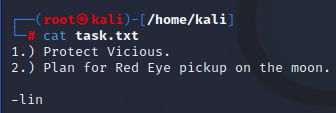
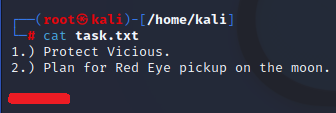
cowboyhacker

Changed region(s): [[0.0, 0.823, 0.2083, 0.9292]]

diff --git a/_posts/Hacking-ético/Maquinas/tryhackme/2023-1-10-CowBoyHacker.md b/_posts/Hacking-ético/Maquinas/tryhackme/2023-1-10-CowBoyHacker.md
@@ -38,7 +38,7 @@ A continuación veremos el contenido de los dos archivos:
 
 ![Untitled](p6.png)
 
-Después de sacar la lista de contraseñas, probaremos a entrar con fuerza bruta a ssh, con el usuario “lin”, que sacamos en el txt “task.txt”
+Después de sacar la lista de contraseñas, probaremos a entrar con fuerza bruta a ssh, con el usuario “X”, que sacamos en el txt “task.txt”
 
 ![Untitled](p7.png)
 
@@ -46,7 +46,7 @@ Accedemos a ssh con este usuario y contraseña y hacemos un ls para ver que nos 
 
 ![Untitled](p8.png)
 
-Primero miraremos las aplicaciones que tienen permisos de administrador que tiene el usuario lin.
+Primero miraremos las aplicaciones que tienen permisos de administrador que tiene el usuario "x".
 
 ![Untitled](p9.png)
 
